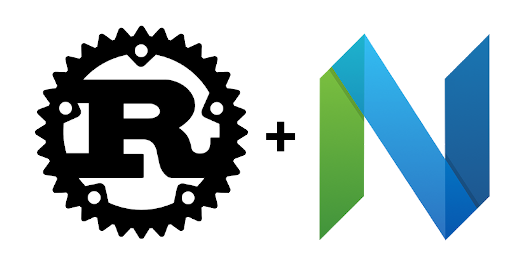
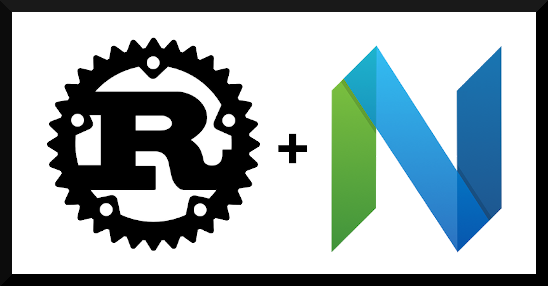
Add a cover

diff --git a/content/posts/neovim-rust.md b/content/posts/neovim-rust.md
@@ -11,6 +11,12 @@ and rust-analyzer"""
 showFullContent = false
 +++
 
+{{< rawhtml >}}
+<p align="center">
+  <img src="/neovim-rust/cover.png" />
+</p>
+{{< /rawhtml >}}
+
 I have used many editors in the last 5 years.
 
 Sublime Text, Vim, then CLion, then VSCode, back to Vim, briefly Onivim and now Neovim.
@@ -207,3 +213,5 @@ to add more language servers (just like we did with rust-analyzer) to have a ful
 featured cross-language experience.
 
 Thanks for reading!
+
+Questions? Found an error? [Create an issue on Github!](https://github.com/sharksforarms/sharksforarms.github.io/issues/new)
